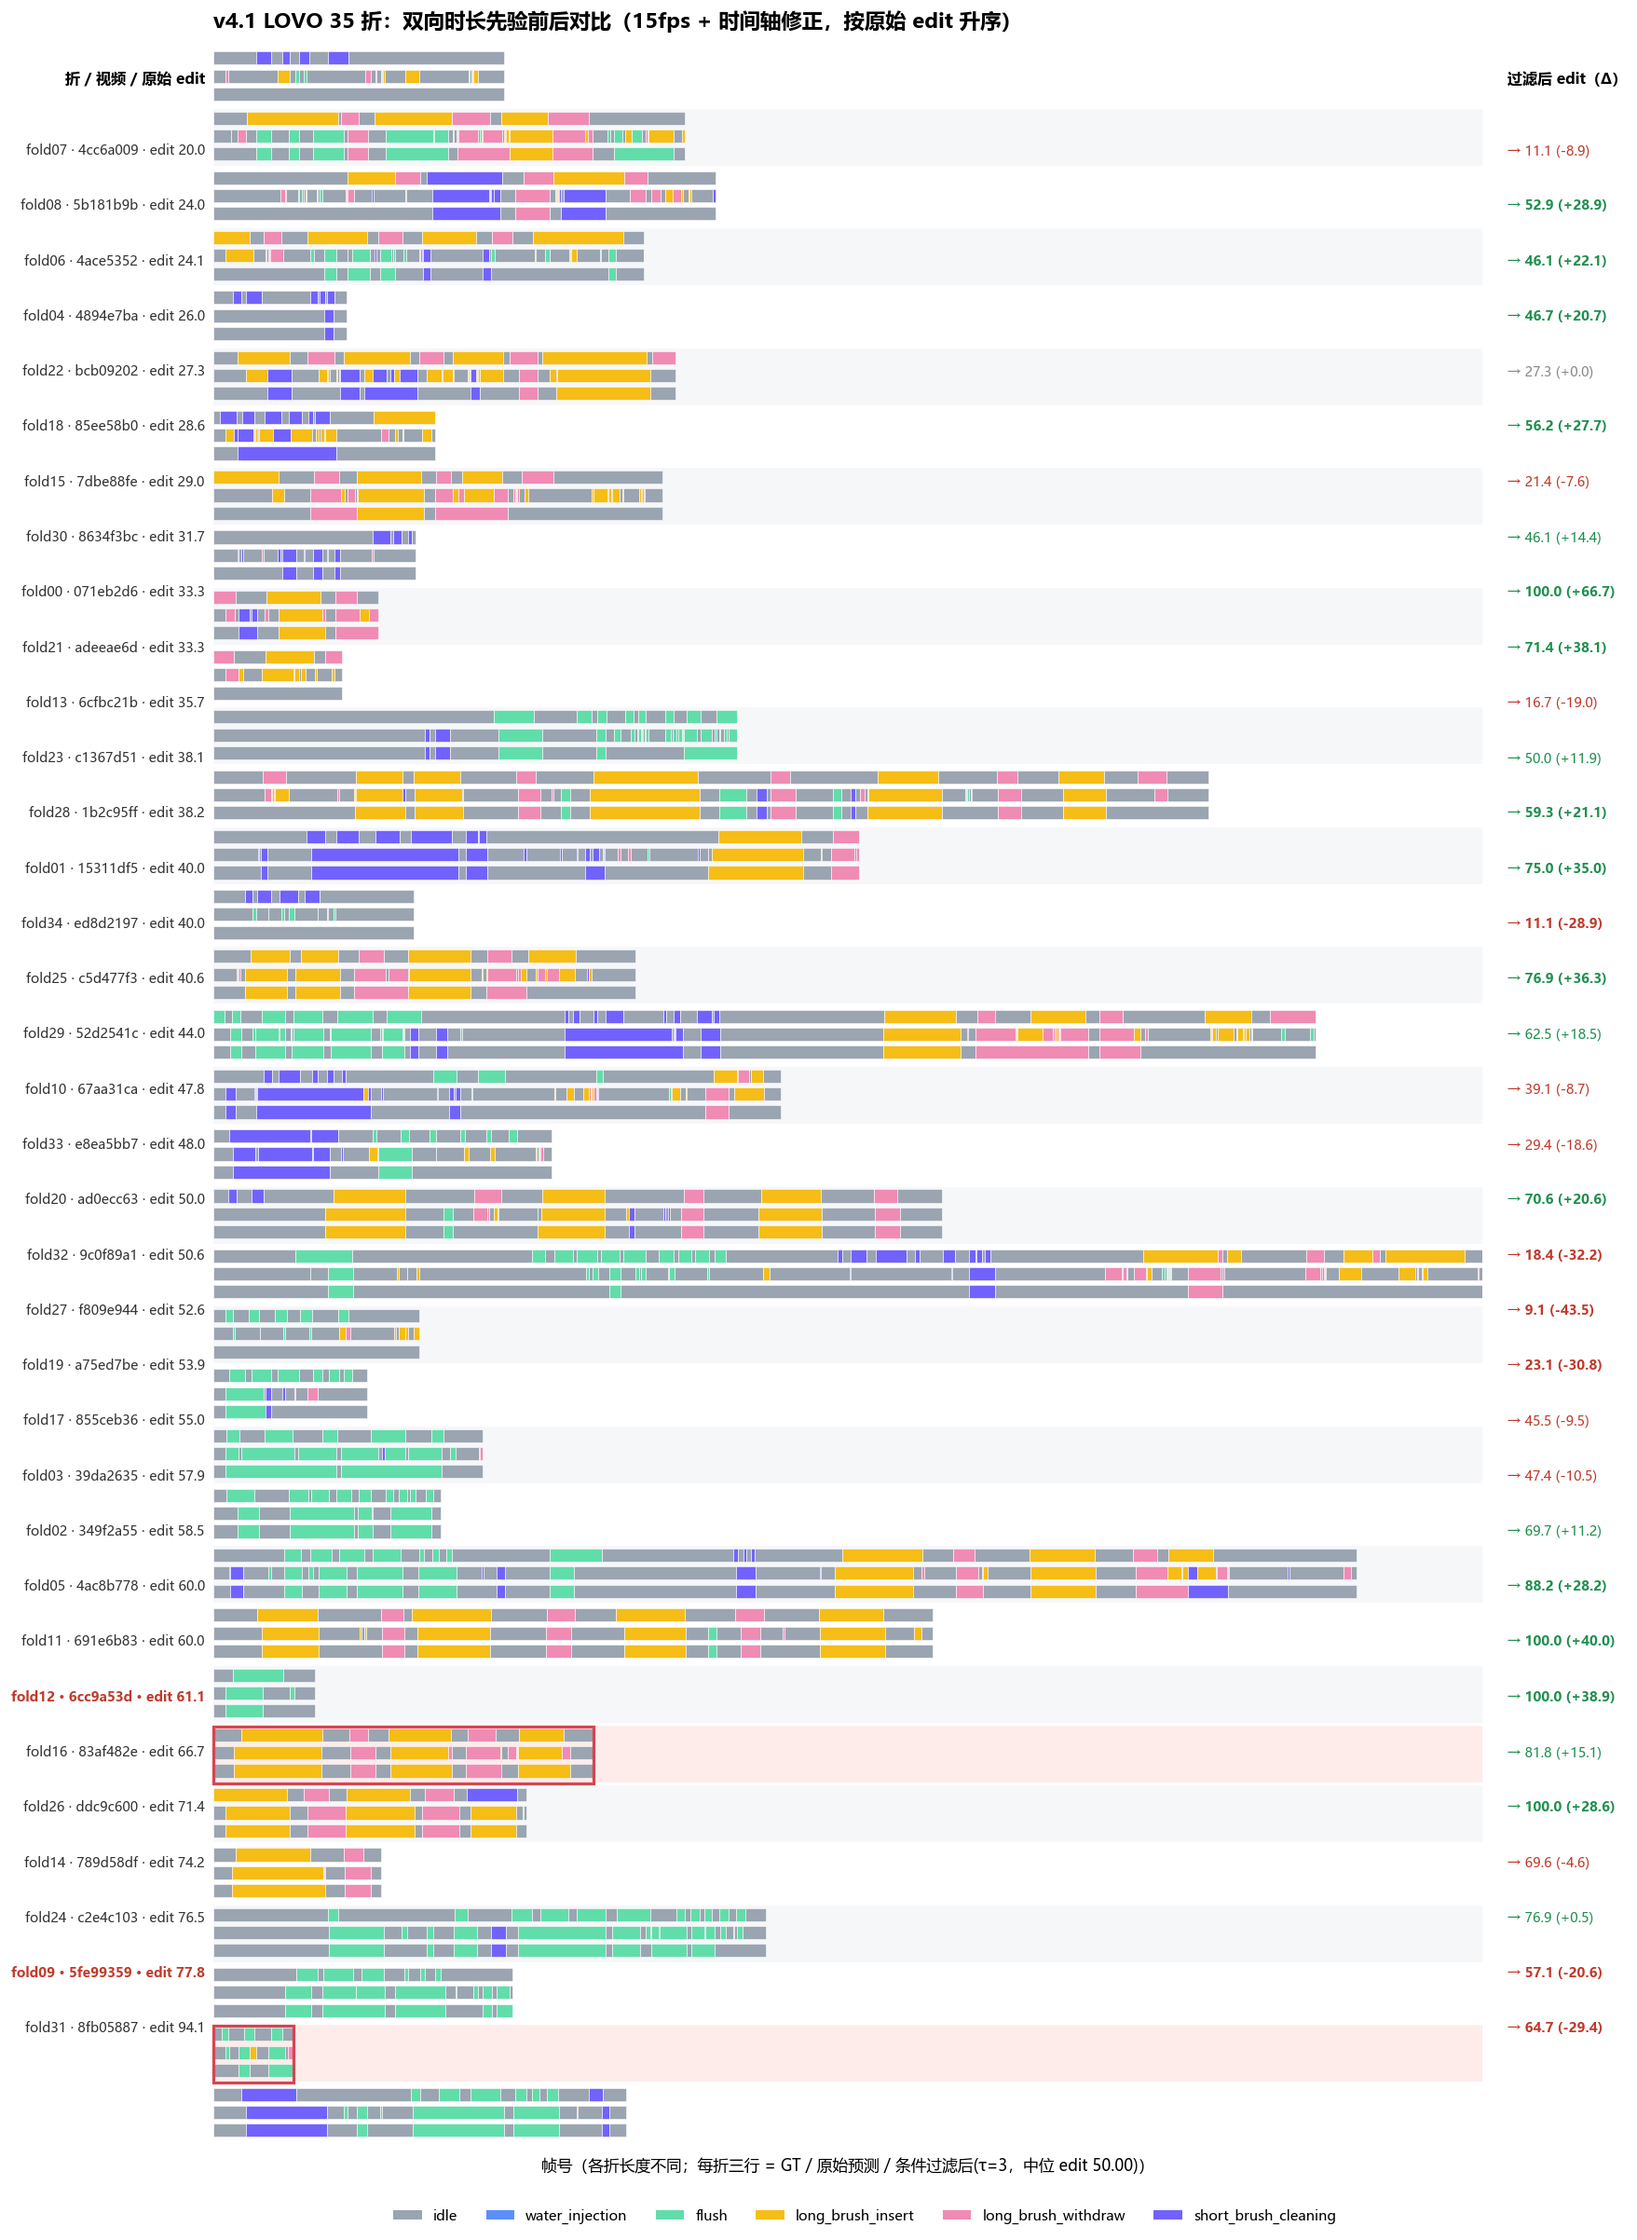
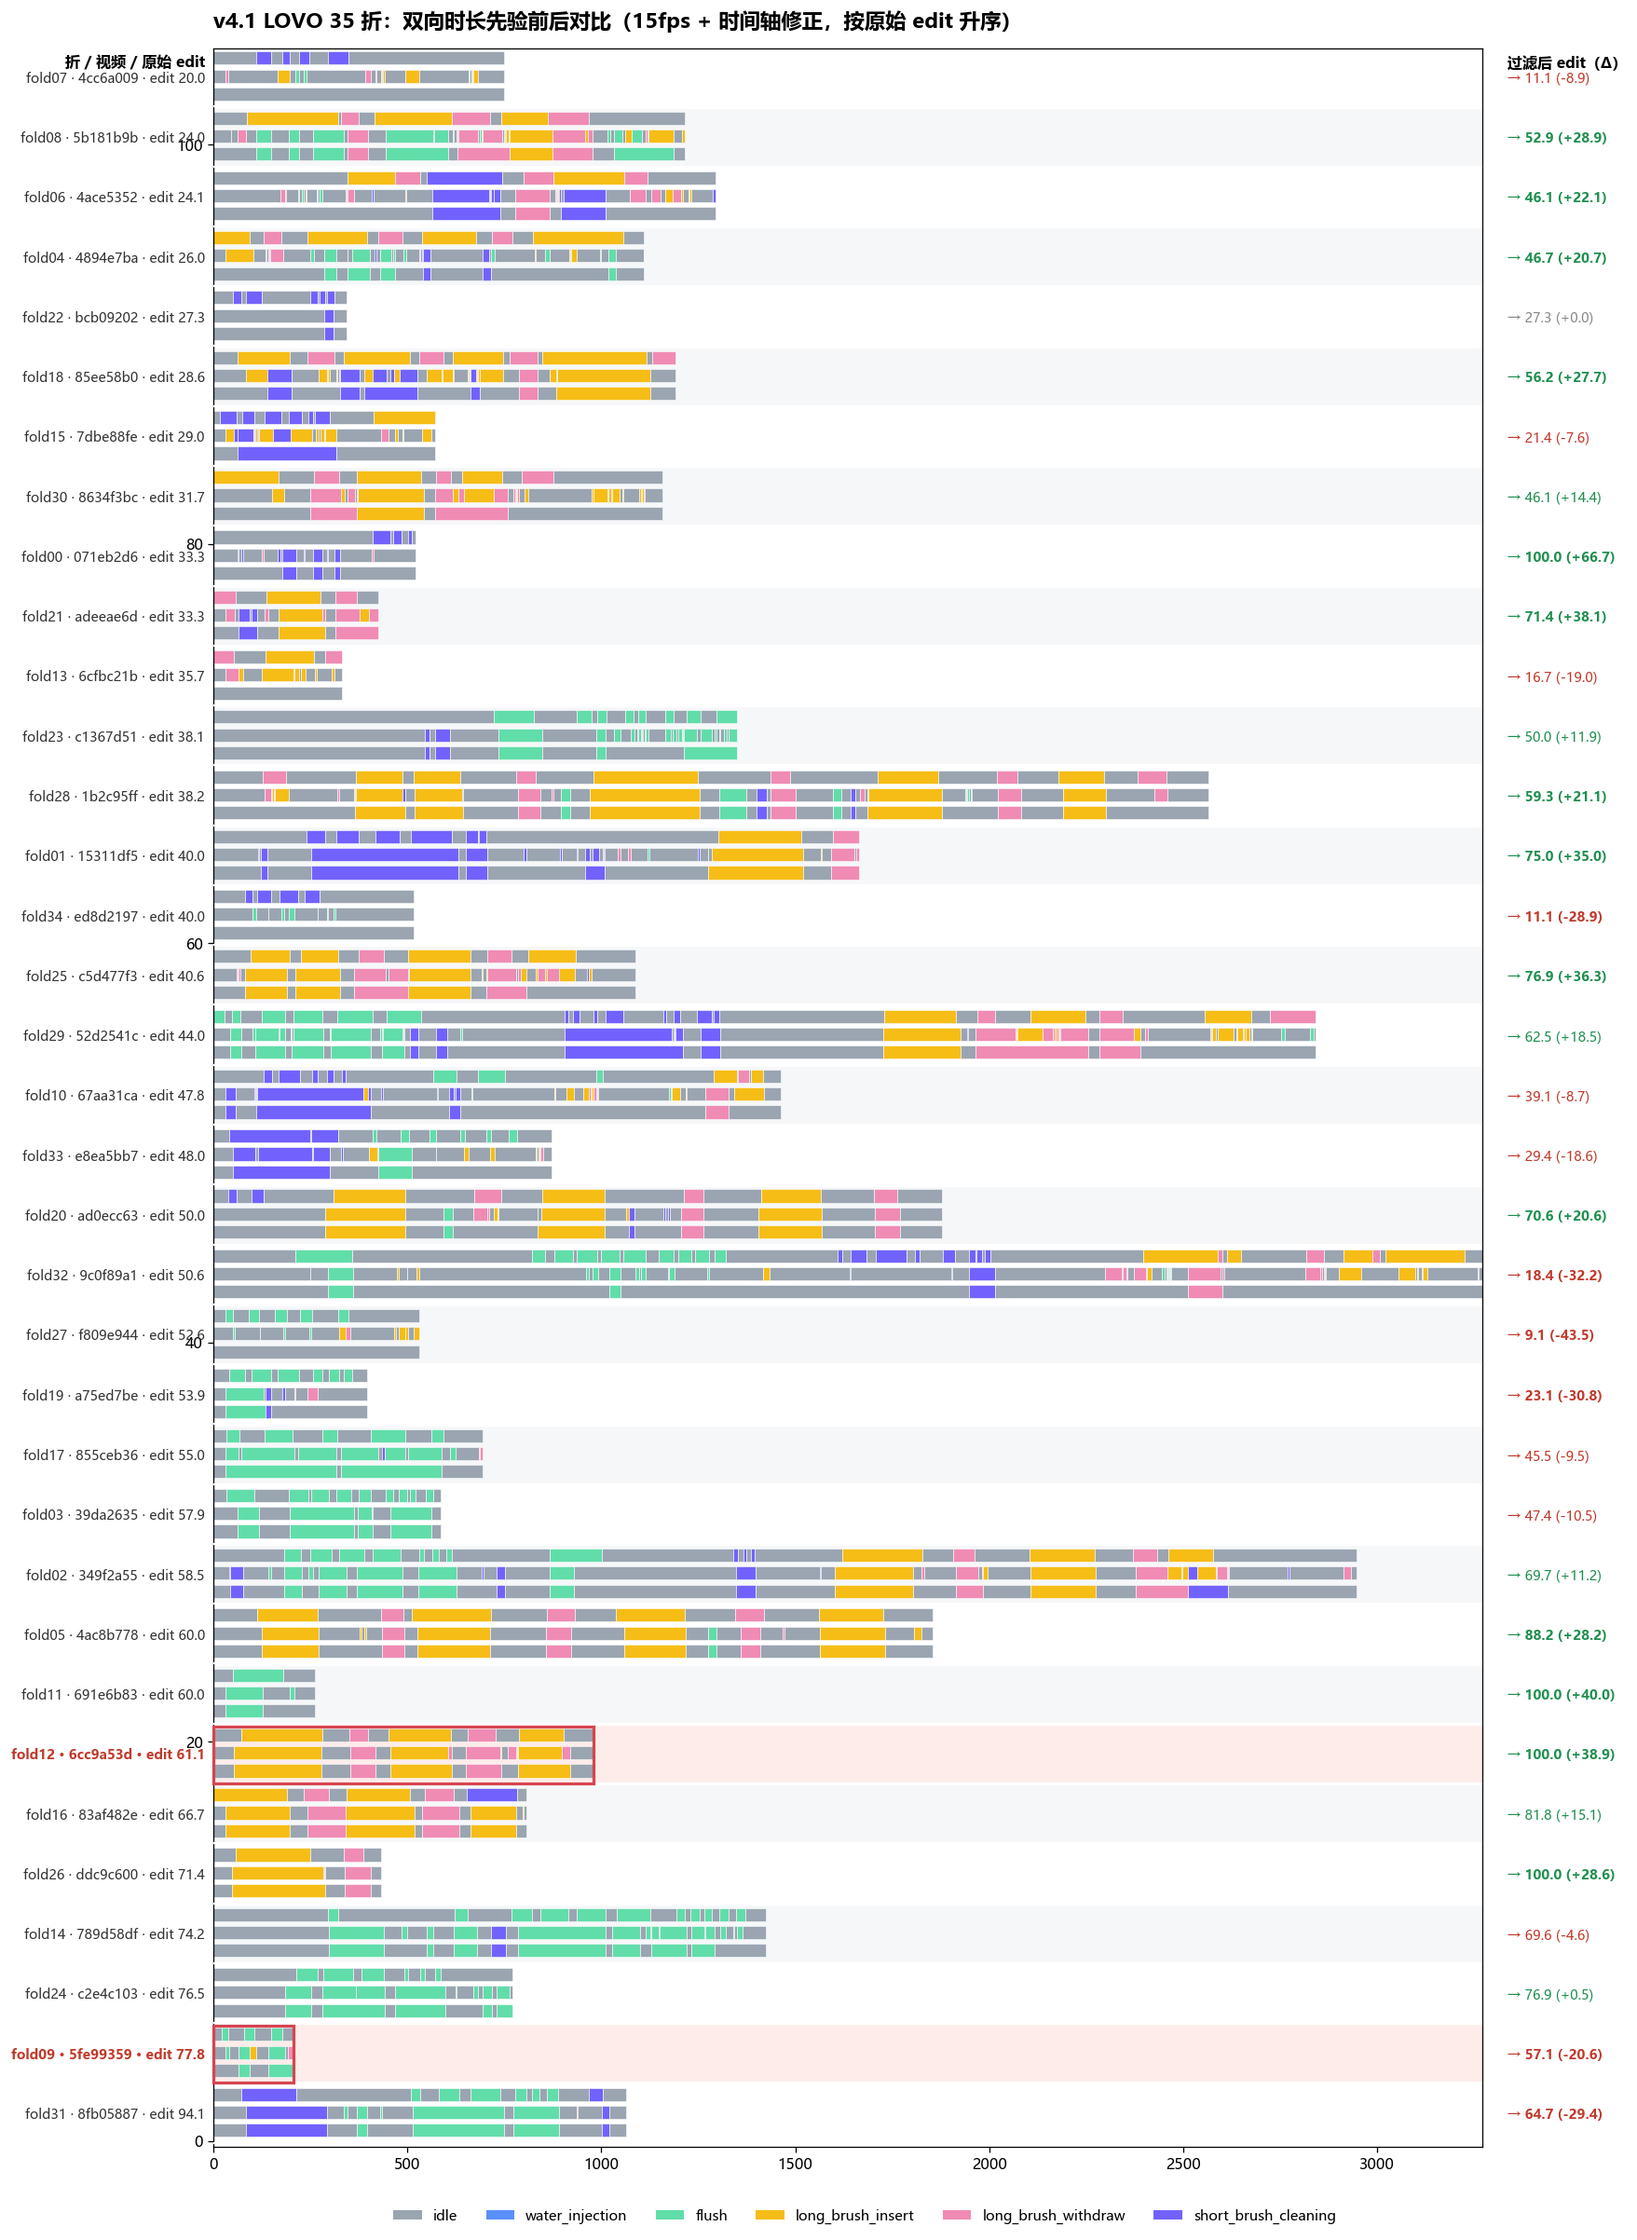
fix(assets): fig7 左侧标签错位——定位公式从旧的画布常数(0.09+0.82)改为 transData 精确换算(画布 12→22 英寸后旧公式导致顶部偏下92px/底部偏上111px)；表头同步对齐首行

diff --git a/docs/assets/feature-lab/scripts/lovo_summary_v41.py b/docs/assets/feature-lab/scripts/lovo_summary_v41.py
@@ -103,7 +103,7 @@ ROW_H = 3.0  # 每折三行
 
 fig = plt.figure(figsize=(16, 22), dpi=115)
 ax = fig.add_axes([0.17, 0.05, 0.74, 0.89])
-
+ax.set_ylim(-0.3, N * ROW_H - 0.2)
 for i, (fold, vid8, ed, _edf, gt, pred, filt, names) in enumerate(records):
     y = (N - 1 - i) * ROW_H
     hl = fold in ("fold12", "fold09")
@@ -111,7 +111,6 @@ for i, (fold, vid8, ed, _edf, gt, pred, filt, names) in enumerate(records):
         ax.axhspan(y - 0.1, y + ROW_H - 0.25, color="#fdecea", zorder=0)
     elif i % 2 == 1:
         ax.axhspan(y - 0.1, y + ROW_H - 0.25, color="#f6f7f9", zorder=0)
-    # 三行：GT / 原始 / 过滤后
     for arr, y0 in ((gt, y + 2.0), (pred, y + 1.1), (filt, y + 0.2)):
         for s, e, ci in segments(arr):
             ax.add_patch(plt.Rectangle((s, y0), e - s, 0.66, facecolor=c4(names[ci]),
@@ -120,22 +119,20 @@ for i, (fold, vid8, ed, _edf, gt, pred, filt, names) in enumerate(records):
     if hl:
         ax.add_patch(plt.Rectangle((0, y - 0.1), len(gt), ROW_H - 0.15, facecolor="none",
                                    edgecolor="#d64550", lw=2.0, zorder=4, clip_on=False))
-    # 左右标签（fig.text，防截断/重叠）
-    fy = 0.09 + 0.82 * ((y + ROW_H / 2 - 0.2) / (N * ROW_H))
+    # 左右标签：transData 精确换算（此时 ylim 已设，坐标有效）
+    disp = ax.transData.transform((0, y + ROW_H / 2 - 0.2))
+    fy = disp[1] / (fig.get_size_inches()[1] * fig.dpi)
     gain = _edf - ed
     gcol = "#1e8e4e" if gain > 0 else ("#c0392b" if gain < 0 else "#888")
     fig.text(0.165, fy, f"{fold} · {vid8} · edit {ed:.1f}", ha="right", va="center", fontsize=9,
              color="#c0392b" if hl else "#333", fontweight="bold" if hl else "normal")
     fig.text(0.925, fy, f"→ {_edf:.1f} ({gain:+.1f})", ha="left", va="center", fontsize=9,
              color=gcol, fontweight="bold" if abs(gain) >= 20 else "normal")
-
-fig.text(0.165, 0.925, "折 / 视频 / 原始 edit", ha="right", fontsize=10, fontweight="bold")
-fig.text(0.925, 0.925, "过滤后 edit（Δ）", ha="left", fontsize=10, fontweight="bold")
 ax.set_xlim(0, maxT)
-ax.set_ylim(-0.3, N * ROW_H - 0.2)
-ax.set_yticks([]); ax.set_xticks([])
-ax.set_xlabel("帧号（各折长度不同；每折三行 = GT / 原始预测 / 条件过滤后(τ=3，中位 edit 50.00)）", fontsize=10.5)
-for s in ax.spines.values(): s.set_visible(False)
+_top = ax.transData.transform((0, (N - 1) * ROW_H + ROW_H / 2 + 0.35))
+_fy_top = _top[1] / (fig.get_size_inches()[1] * fig.dpi)
+fig.text(0.165, _fy_top, "折 / 视频 / 原始 edit", ha="right", fontsize=10, fontweight="bold")
+fig.text(0.925, _fy_top, "过滤后 edit（Δ）", ha="left", fontsize=10, fontweight="bold")
 ax.set_title("v4.1 LOVO 35 折：双向时长先验前后对比（15fps + 时间轴修正，按原始 edit 升序）", fontsize=14, fontweight="bold", loc="left", pad=14)
 handles = [plt.Rectangle((0,0),1,1, facecolor=c4(n)) for n in NAMES]
 fig.legend(handles, NAMES, fontsize=9.5, ncol=6, loc="lower center", bbox_to_anchor=(0.55, 0.012), frameon=False)
